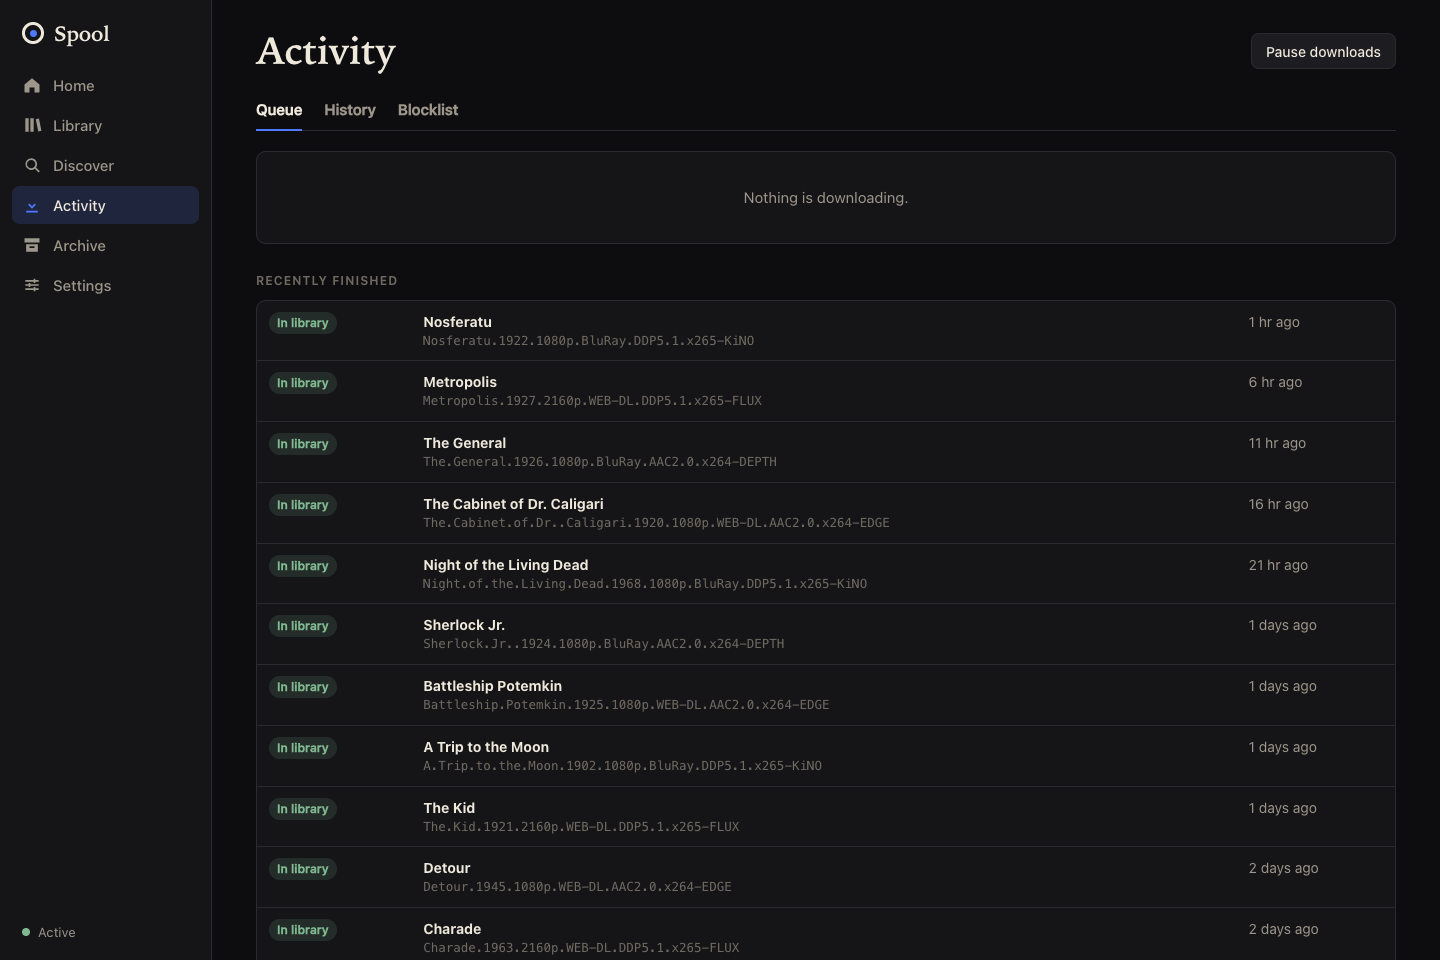
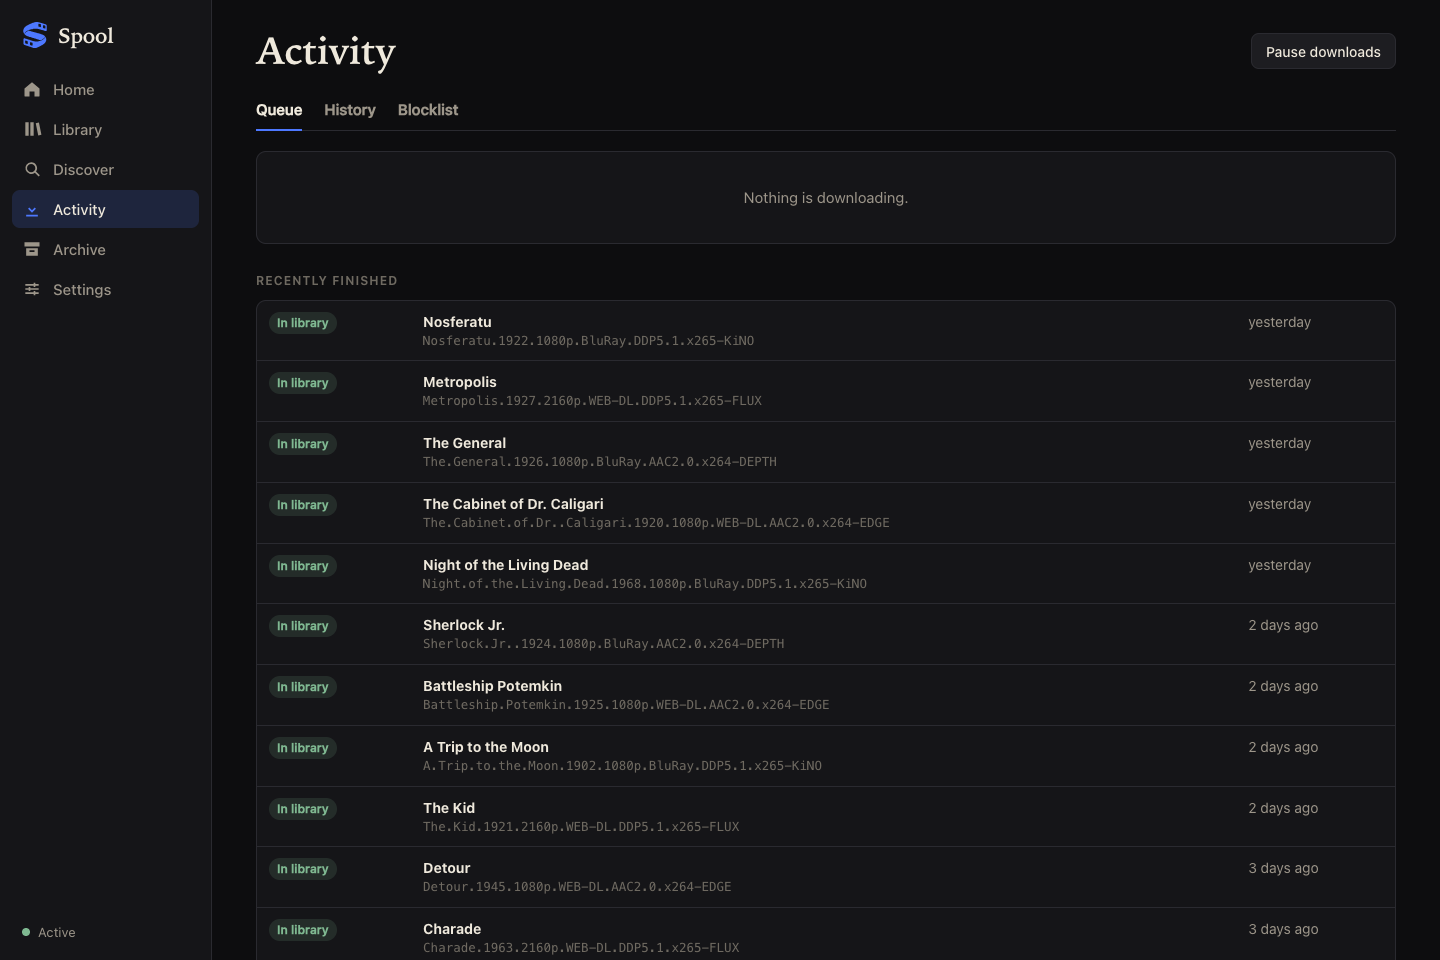
Retake the screenshots and show the new features on the landing page
New screenshots from the demo library carry the new mark. The landing
page gains sections on checked subtitles and bulk actions, and cards for
film versions, original-language handling and awkward release names.
Also says 'yesterday' where it said '1 days ago'.

Claude-Session: https://claude.ai/code/session_01FE5FsUGKfjUWw3YCunH4BD

diff --git a/docs/index.html b/docs/index.html
@@ -154,6 +154,9 @@
       <div><h3>Unpacks as it downloads</h3><p>Uncompressed RAR posts are unpacked volume by volume while they arrive, so they need about half the room and no extraction step.</p></div>
       <div><h3>Whole seasons, one source</h3><p>For series it prefers a pack or one group's complete run over a scatter of episodes, and searches by name when an indexer's ids fall short.</p></div>
       <div><h3>Sizes you choose</h3><p>Profiles carry a size target. Oversized releases are a last resort, and a file that is too big can be swapped for a smaller copy.</p></div>
+      <div><h3>More than one version</h3><p>Keep a 4K copy beside a small one, or two cuts of the same film. Upgrades replace the main file and leave the others alone.</p></div>
+      <div><h3>Original language first</h3><p>It knows what language a title was made in, ranks dubs last, and follows anime's own episode numbering.</p></div>
+      <div><h3>Reads awkward names</h3><p>Releases named without a year, never linked to an id, or handed over with garbled non-Latin text are still recognised for what they are.</p></div>
       <div><h3>Cautious by default</h3><p>It starts in a mode that changes nothing, journals every import, recycles replaced files and will not write when the media disk is missing.</p></div>
     </div>
   </section>
@@ -188,6 +191,35 @@
 
   <section class="show">
     <div class="copy">
+      <p class="eyebrow">Subtitles</p>
+      <h2>Subtitles it has listened to.</h2>
+      <p class="sub">Fetching a subtitle file is easy. Knowing it is in time with your copy of the film is the hard part, so Spool checks.</p>
+      <ul>
+        <li><b>Keeps what the release brings</b>, and finds missing languages on OpenSubtitles.</li>
+        <li><b>Listens to the film.</b> It compares when people speak with when the subtitles say they do.</li>
+        <li><b>Corrects what it can.</b> A file that is late, early or timed for another frame rate is retimed.</li>
+        <li><b>Discards what does not fit</b> and tries the next, so a subtitle for a different cut never stays.</li>
+      </ul>
+    </div>
+    <div class="window"><div class="bar"><i></i><i></i><i></i></div><img src="assets/subtitles.png" alt="A film with two versions; its subtitle files are marked in time or corrected" width="1440" height="960"></div>
+  </section>
+
+  <section class="show flip">
+    <div class="copy">
+      <p class="eyebrow">In bulk</p>
+      <h2>Tidy a whole shelf at once.</h2>
+      <p class="sub">Select as many titles as you like and act on them together.</p>
+      <ul>
+        <li><b>Monitor, change profile, search or refresh</b> a selection, with searches running in the background.</li>
+        <li><b>Free space in one go</b>: delete the files of everything you have watched, or look for smaller copies.</li>
+        <li><b>The same for the queue</b>: pause, resume or remove several downloads together.</li>
+      </ul>
+    </div>
+    <div class="window"><div class="bar"><i></i><i></i><i></i></div><img src="assets/select.png" alt="The library with several titles selected and a bar of actions for them" width="1440" height="960"></div>
+  </section>
+
+  <section class="show">
+    <div class="copy">
       <p class="eyebrow">For assistants</p>
       <h2>Ask an AI why something hasn't arrived.</h2>
       <p class="sub">Spool speaks the Model Context Protocol, so an assistant such as Claude can look at your library and operate it.</p>
@@ -209,7 +241,7 @@ git clone https://github.com/rewtraw/spool && cd spool
 mkdir -p data && $EDITOR compose.yaml   <span class="c"># set the user and your media path</span>
 docker compose up -d --build            <span class="c"># http://localhost:7979</span>
 
-<span class="c"># or from source: Rust, Bun, and par2, 7zz and ffprobe on the PATH</span>
+<span class="c"># or from source: Rust, Bun, and par2, 7zz and ffmpeg on the PATH</span>
 (cd web && bun install && bun run build)
 cargo run --release -p spool -- serve</pre>
     <p class="note">Add your folders, a Usenet provider and a Newznab indexer in Settings. Spool starts in shadow mode, recording what it would do and changing nothing, until you switch it to active. Coming from Radarr, Sonarr and SABnzbd? <code>spool migrate</code> brings over your catalog, profiles, indexers and servers. The <a href="https://github.com/rewtraw/spool#readme">README</a> has the details.</p>

diff --git a/web/src/lib/format.ts b/web/src/lib/format.ts
@@ -55,6 +55,7 @@ export function ago(ts: number): string {
   if (s < 60) return 'just now';
   if (s < 3600) return `${Math.floor(s / 60)} min ago`;
   if (s < 86400) return `${Math.floor(s / 3600)} hr ago`;
+  if (s < 86400 * 2) return 'yesterday';
   if (s < 86400 * 30) return `${Math.floor(s / 86400)} days ago`;
   return new Date(ts * 1000).toLocaleDateString(undefined, { year: 'numeric', month: 'short', day: 'numeric' });
 }
